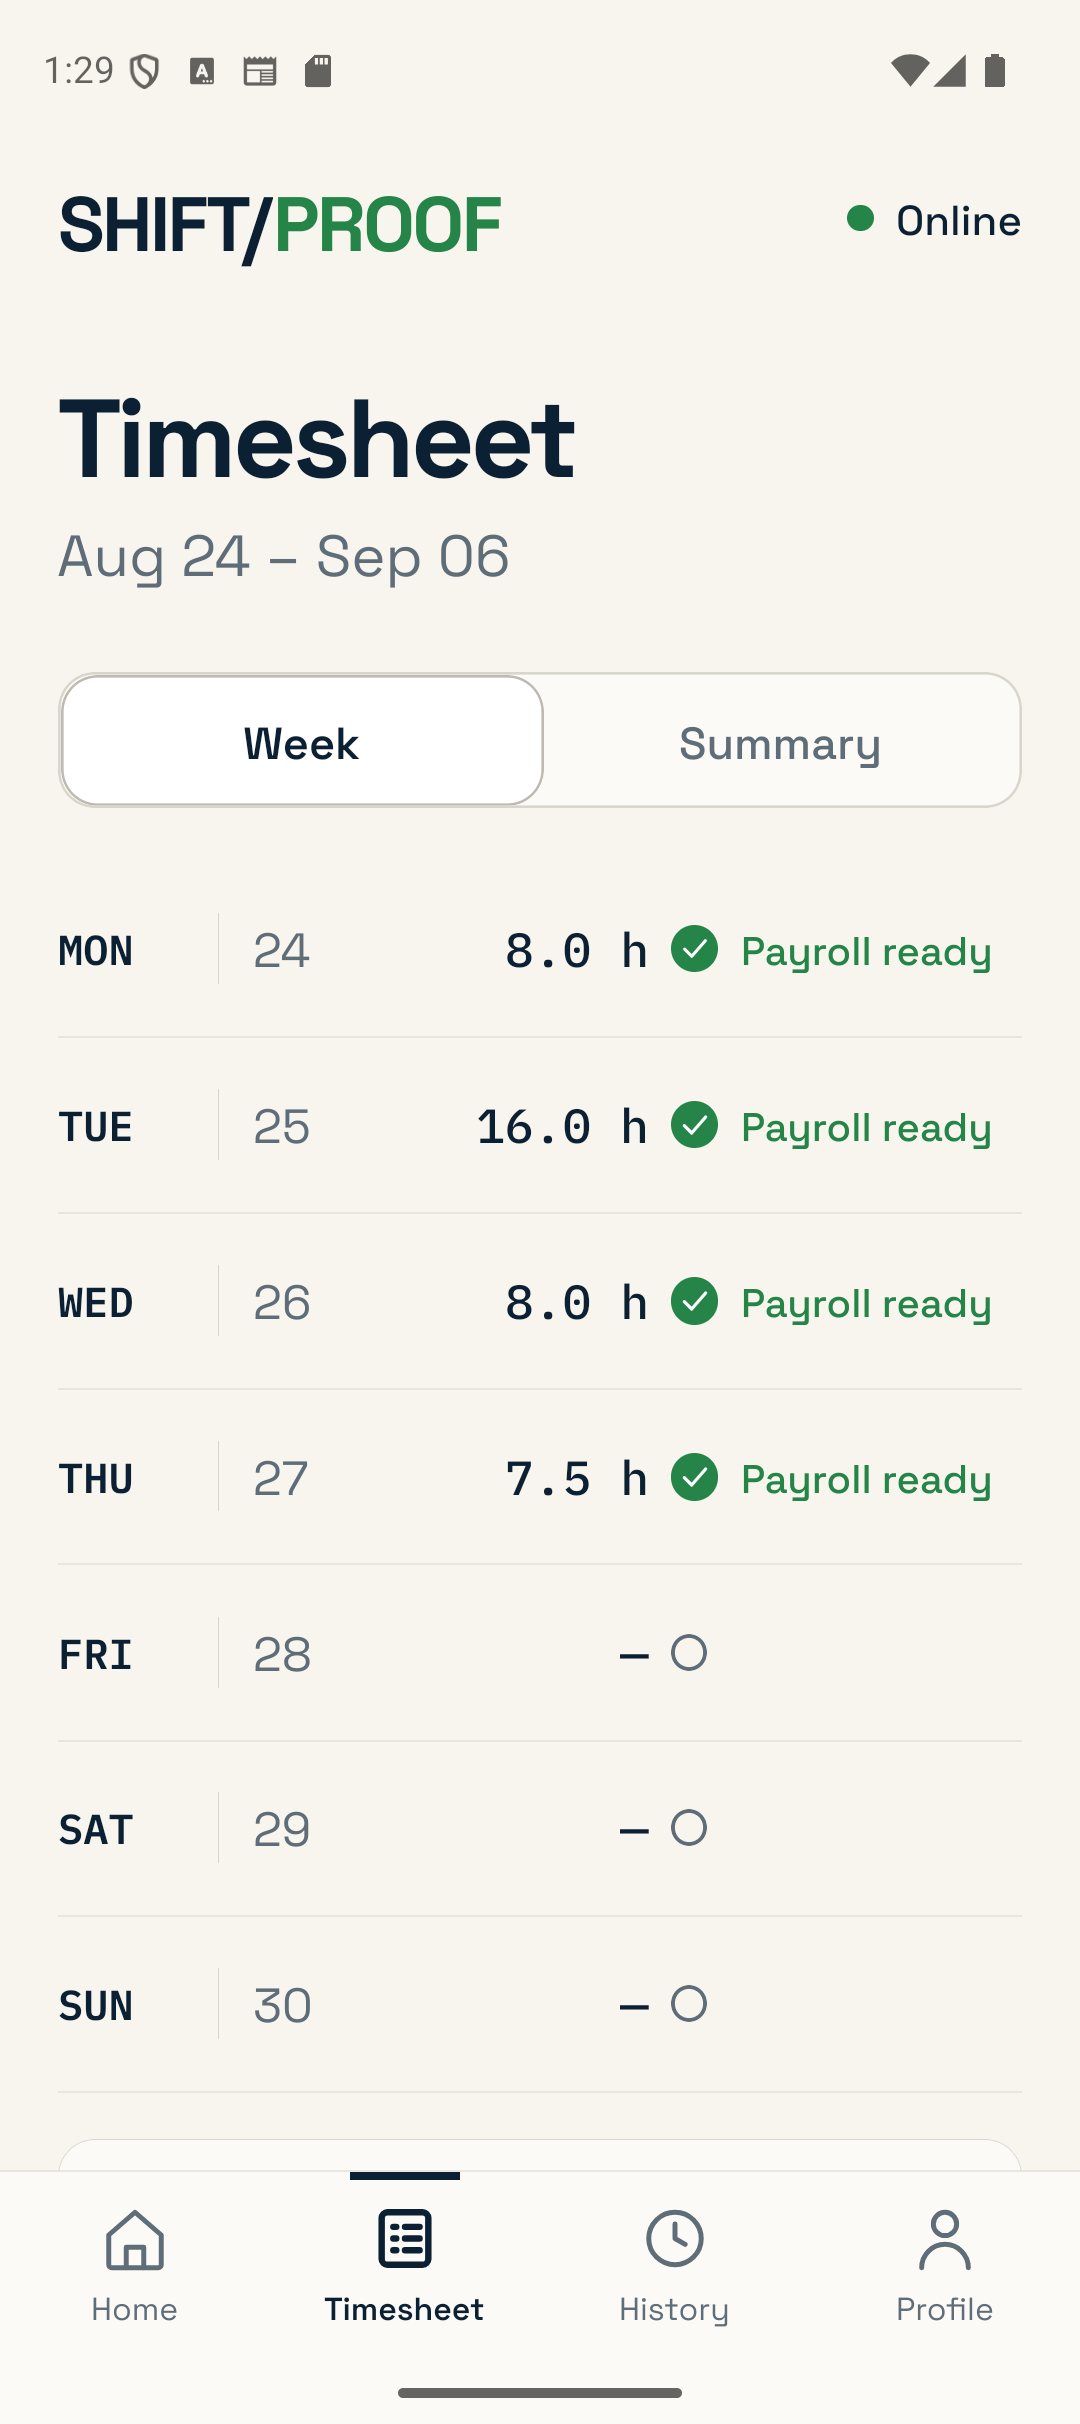
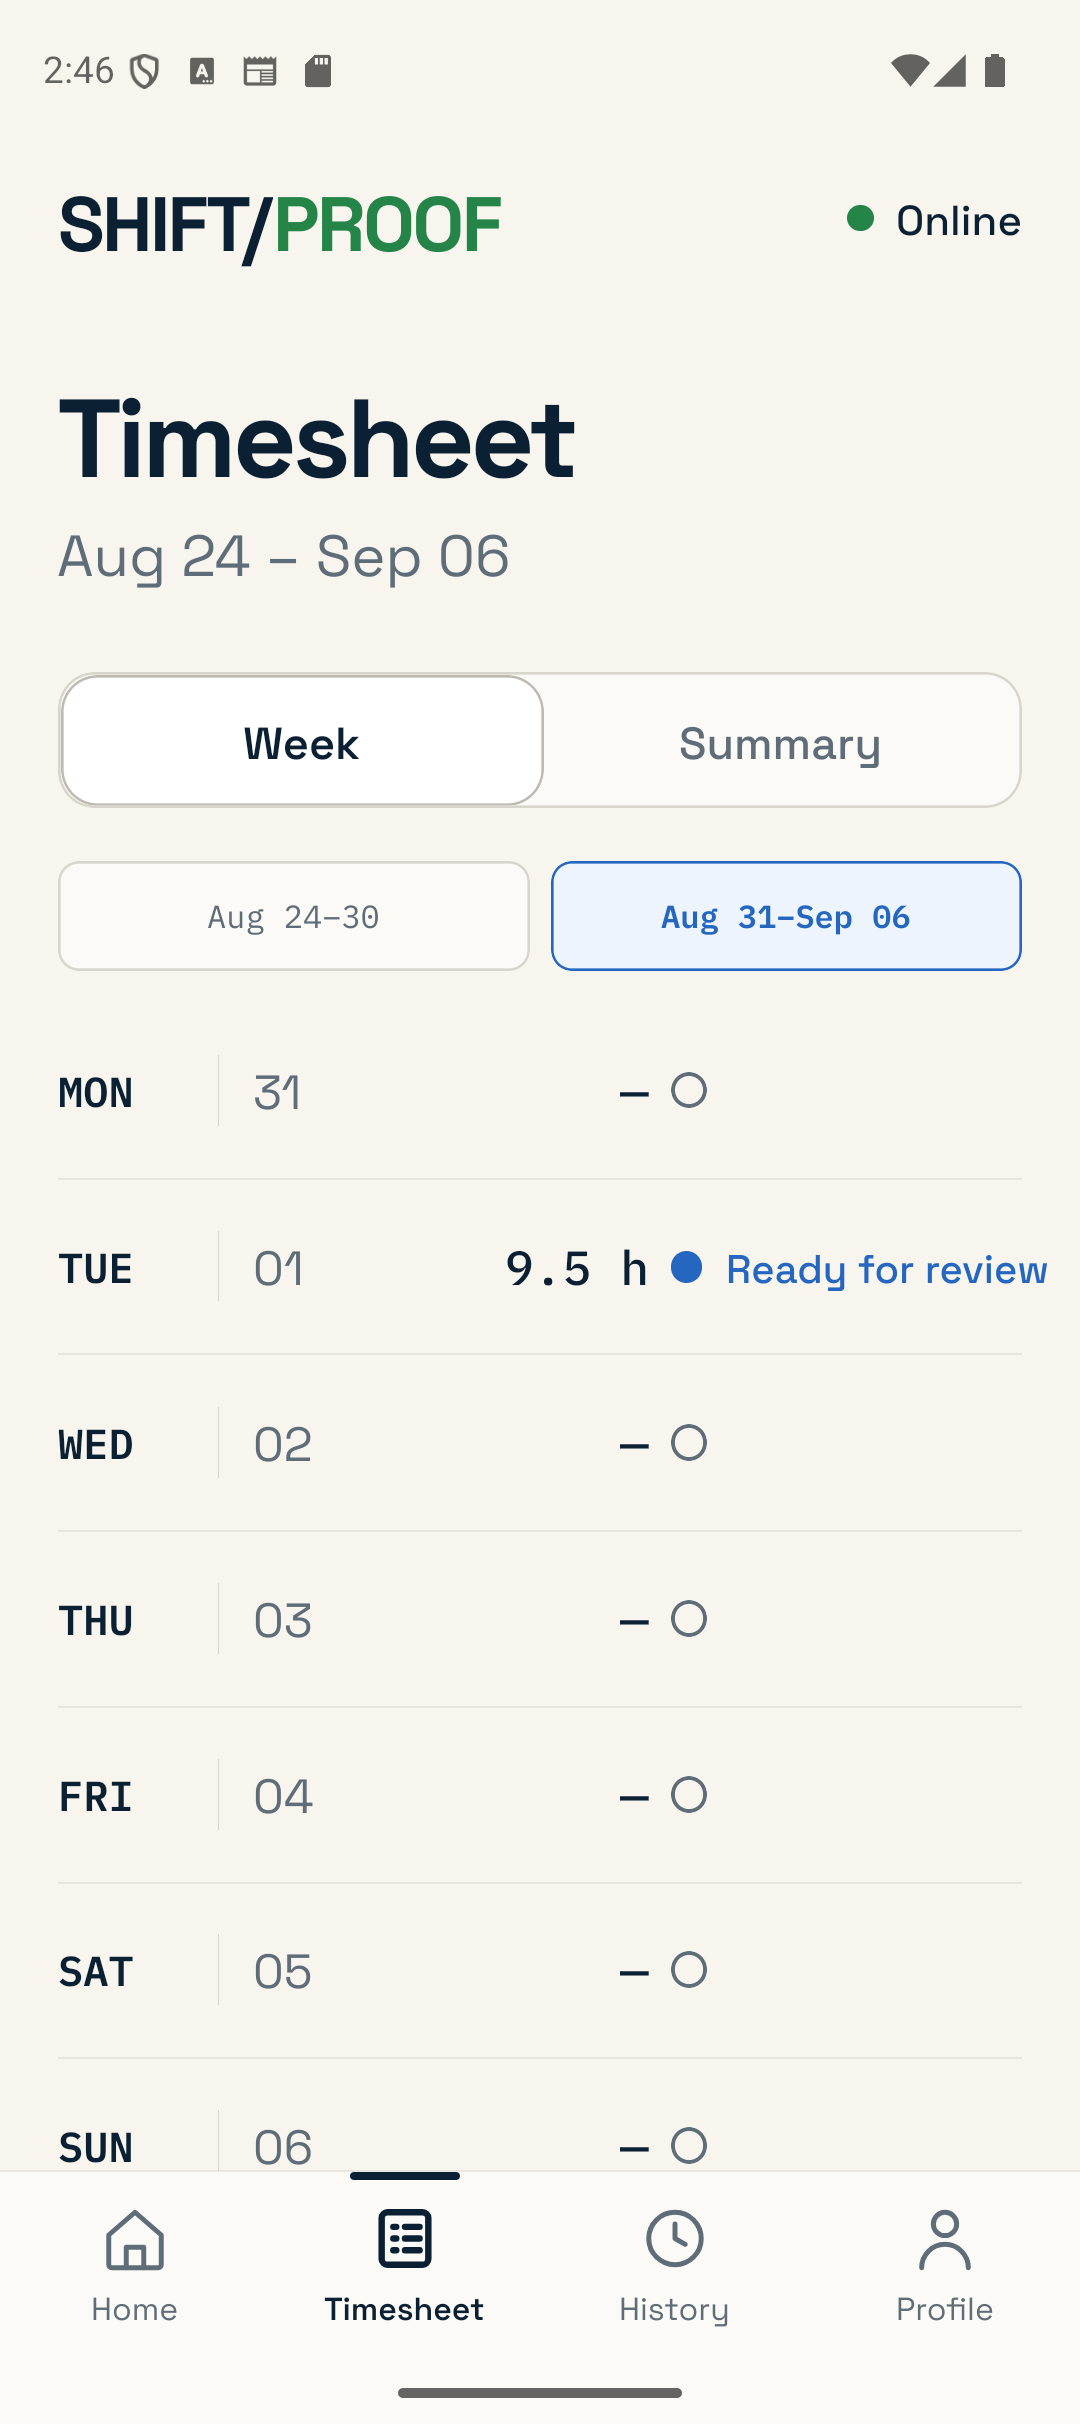
Publish connected approval evidence

diff --git a/README.md b/README.md
@@ -48,6 +48,10 @@ For the exact reviewer path and the meaning of each mode, see [Reviewer demo scr
 | --- | --- | --- |
 | ![ShiftProof saved offline on Android](docs/screenshots/mobile/saved-offline.png) | ![ShiftProof synchronized automatically with the API](docs/screenshots/mobile/synced-online.png) | ![ShiftProof reviewer controls](docs/screenshots/mobile/reviewer-controls.png) |
 
+| Mobile submission ready for review | Manager approval reflected on Android |
+| --- | --- |
+| ![ShiftProof mobile entry ready for manager review](docs/screenshots/mobile/timesheet.png) | ![ShiftProof mobile entry reconciled to payroll ready](docs/screenshots/mobile/timesheet-approved.png) |
+
 | Manager review | Approval recorded |
 | --- | --- |
 | ![ShiftProof manager review](docs/screenshots/web/manager-review.png) | ![ShiftProof approved revision](docs/screenshots/web/manager-review-approved.png) |
